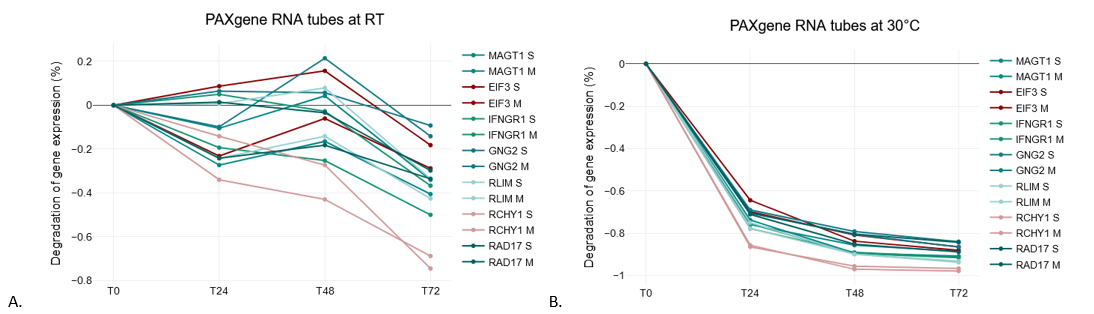
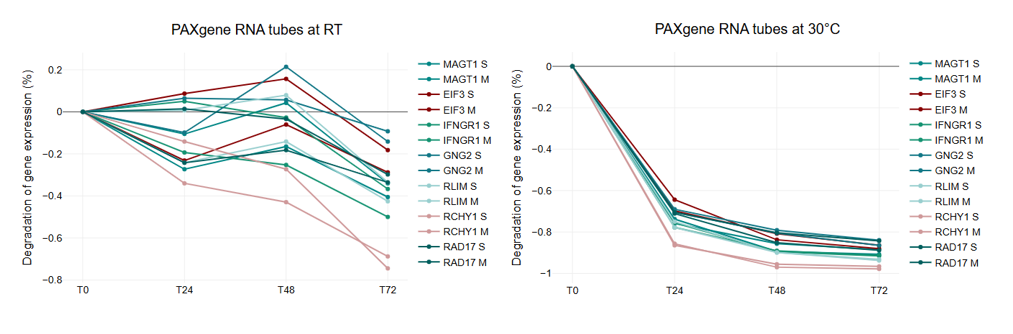
Přidání obrázků grafů, které zatím nejsou optimální, pouze počáteční verze z datatab.net, budu je předělávat.

diff --git a/main.tex b/main.tex
@@ -3,7 +3,7 @@
 \documentclass[fleqn,10pt]{wlscirep}
 \usepackage[utf8]{inputenc}
 \usepackage[T1]{fontenc}
-\title{SPIDIA blood stabilization study: Substantial activation of gene expression is mediated by blood incubation in EDTA tubes}
+\title{SPIDIA blood stabilization study: Extreme upregulation of gene expression is mediated by improper blood incubation in EDTA tubes}
 
 \input{affiliations.tex}
 
@@ -83,15 +83,15 @@ The corresponding author is responsible for submitting a \href{http://www.nature
     \caption{EDTA candidate markers' gene expression measured over time. A) Upregulation markers, B) Downregulation markers.}
     \label{fig:figure2}
     \end{figure}
-% Figure2 Vymyslet, jak to udělat s tou tmavou čárou v pravém obrázku a sjednotit čísla na y osách, aby to byla procenta. Sjednotit popisky na x ose.
+% Figure2 pozor na popis procent, předělat a taky musíbýt T2-TO ebo delta T2
 
 \begin{figure}[ht]
     \centering
     \includegraphics[width=\linewidth]{figure3}
-    \caption{RNA integrity number (RIN) measured while blood was incubated in EDTA tubes at RT (N = 7).}
+    \caption{RNA integrity number (RIN) measured while blood was incubated in EDTA tubes and PAXgene RNA tubes at RT.}
     \label{fig:figure3}
     \end{figure}
-% Figure3 Zkusit to dát od 1 do 10 a zmenšit jako ostatní obrázky s RIN. Sjednotit popisky na x ose.
+% Figure3 Kombinace EDTA a PAX, chybí ještě dodělat detailnější popis jako the percent change in gene expression, where T0T0 is set to 0% as a baseline for comparison.
 
 \begin{figure}[ht]
     \centering
@@ -115,7 +115,7 @@ The corresponding author is responsible for submitting a \href{http://www.nature
     \caption{Normalized PAXgene candidate markers for degradation of gene expression measured over time. A) Degradation at RT. B) Degradation at 30°C.}
     \label{fig:figure6}
     \end{figure}
-% Figure6 Sjednotit popisky na x ose, je jinde napsáno v popiskách normalizováno? Sjednotit to, aby na obou y osách bylo ty ty samé čísla.    
+% Figure6 tohle by mělo být v pořádku, ale nějak vymyslet ten popisek, aby byly jasné ty procenta, je to jen screenshot png, ještě předělat popisky a dole nemůže být jen T24, ale delta T24  
 
 
 \begin{figure}[ht]

diff --git a/graphEDTA.py b/graphEDTA.py
@@ -1,0 +1,29 @@
+import matplotlib.pyplot as plt
+
+# Data for fold change percentages
+categories = ['T0', 'T2 vs T0', 'T6 vs T0', 'T24 vs T0', 'T48 vs T0', 'T72 vs T0']
+btg3_s = [100, -121.66, 185.56, 571.88, 764.88, 1524.22]
+cd69_s = [100, 377.67, 563.08, 1494.33, 1659.16, 2488.39]
+cd83_s = [100, -116.82, 171.60, 285.38, 497.19, 602.70]
+ermn_s = [100, 118.92, 162.34, 442.07, 186.92, 499.33]
+jun_s = [100, 202.99, 807.43, 3181.04, 3301.93, 4362.68]
+phf1_s = [100, 122.02, 118.49, 145.54, 145.93, 218.64]
+
+# Create the plot
+plt.figure(figsize=(10, 6))
+plt.plot(categories, btg3_s, label='BTG3 S', marker='o')
+plt.plot(categories, cd69_s, label='CD69 S', marker='o')
+plt.plot(categories, cd83_s, label='CD83 S', marker='o')
+plt.plot(categories, ermn_s, label='ERMN S', marker='o')
+plt.plot(categories, jun_s, label='JUN S', marker='o')
+plt.plot(categories, phf1_s, label='PHF1 S', marker='o')
+
+# Add labels and title
+plt.xlabel('Comparison')
+plt.ylabel('Expression Change (%)')
+plt.title('Fold Change Percentage Comparison for Genes')
+plt.legend()
+plt.grid(True)
+
+# Show the plot
+plt.show()
